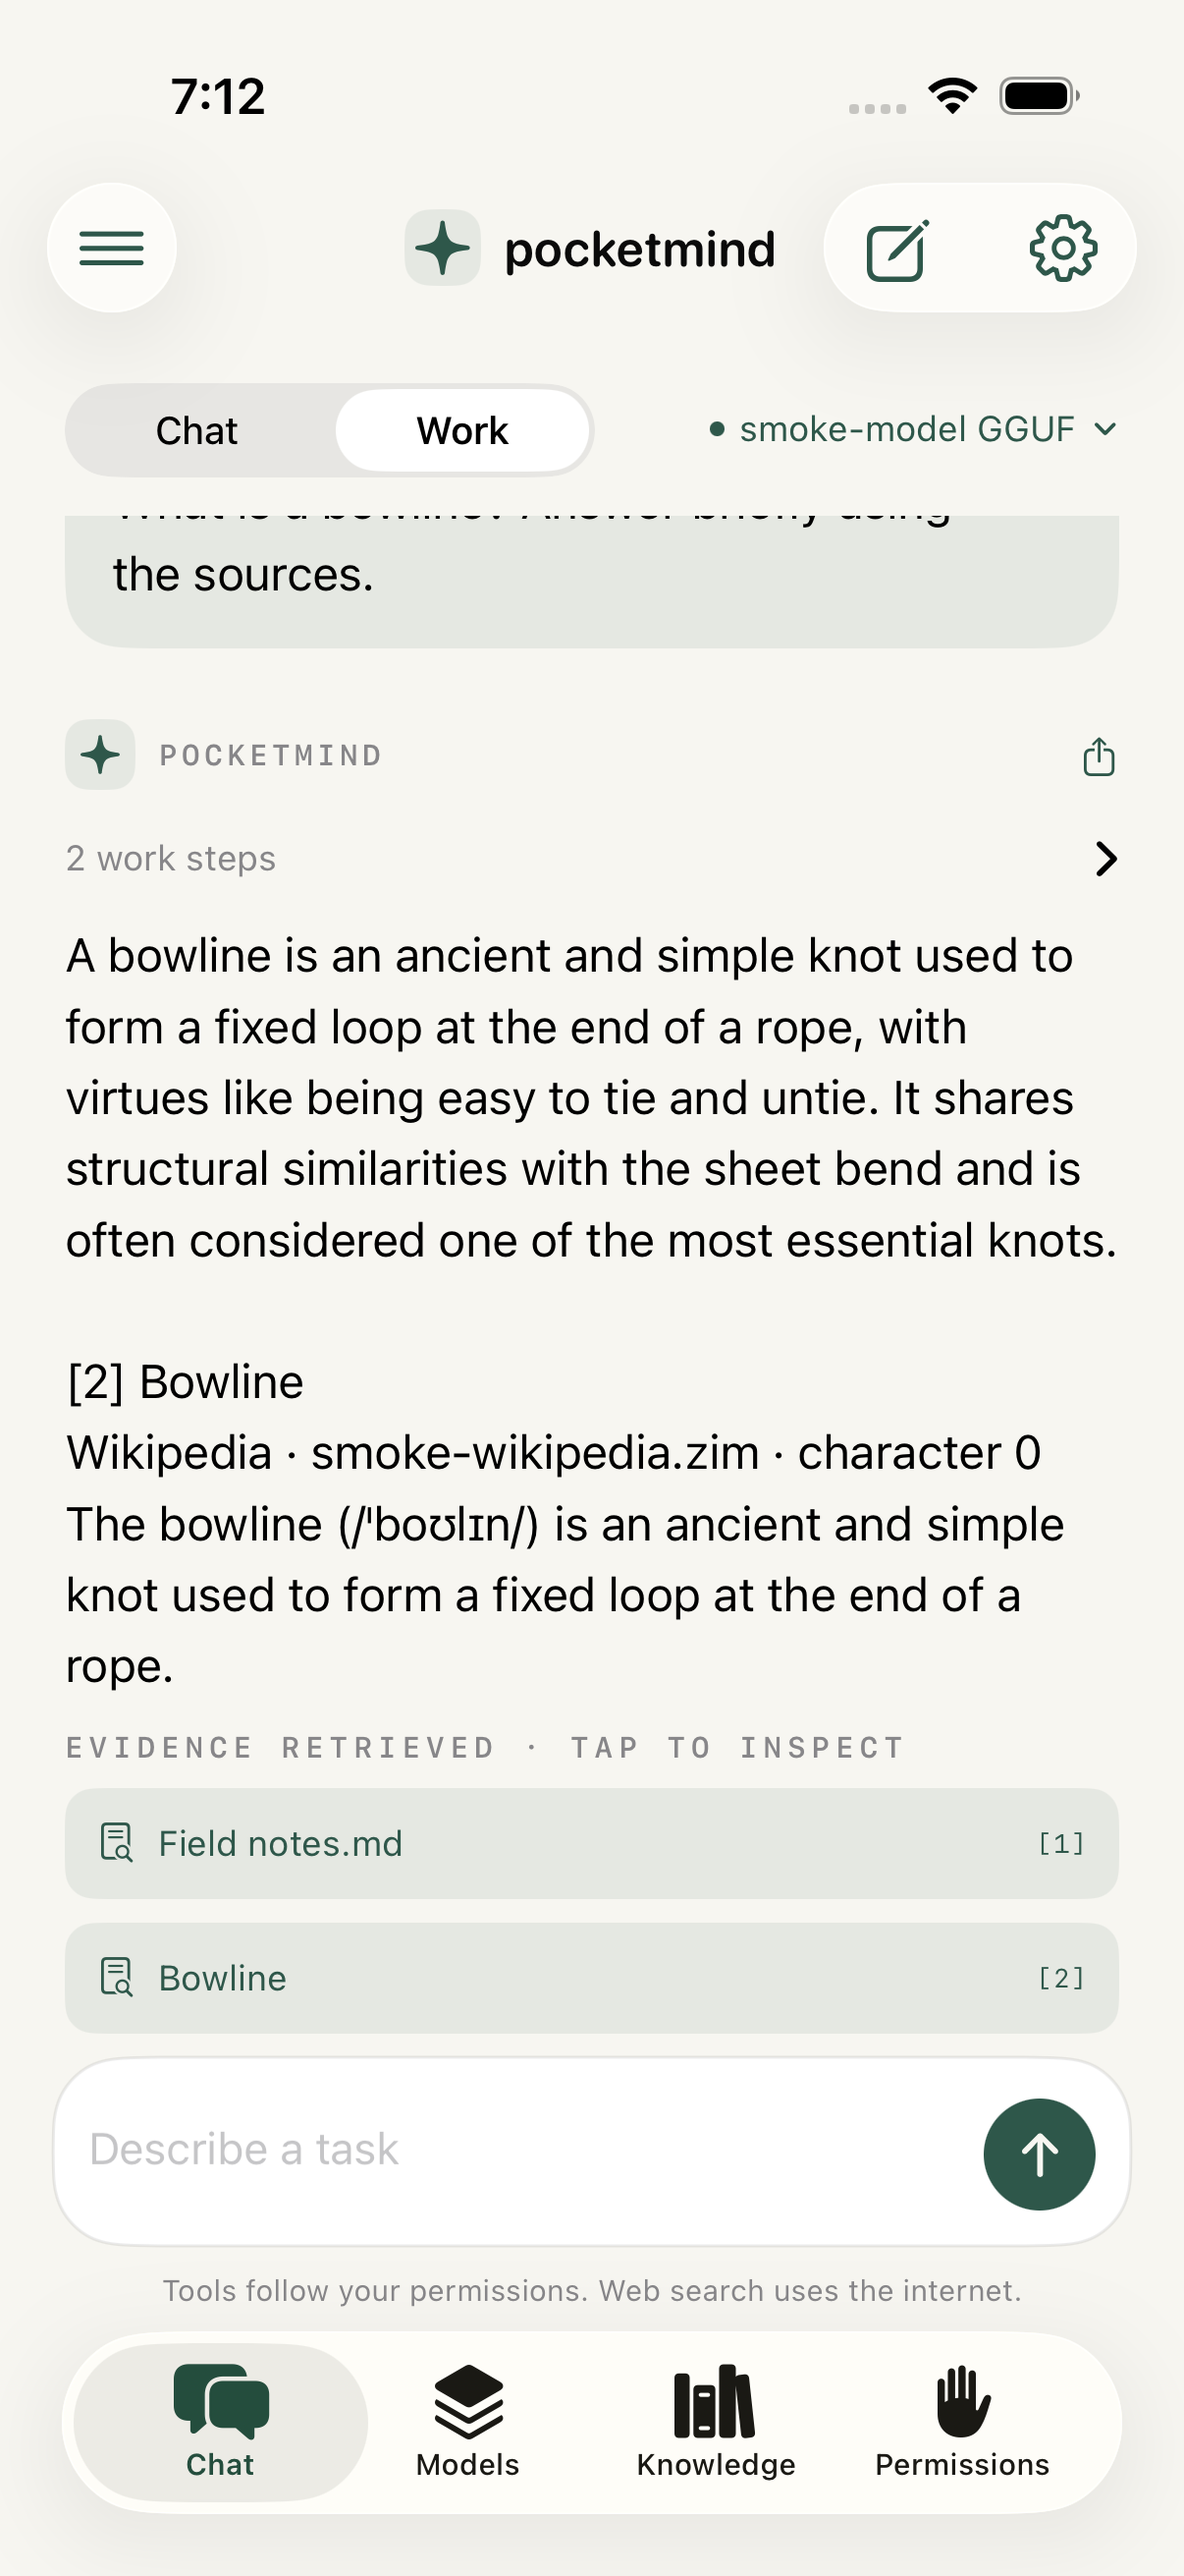
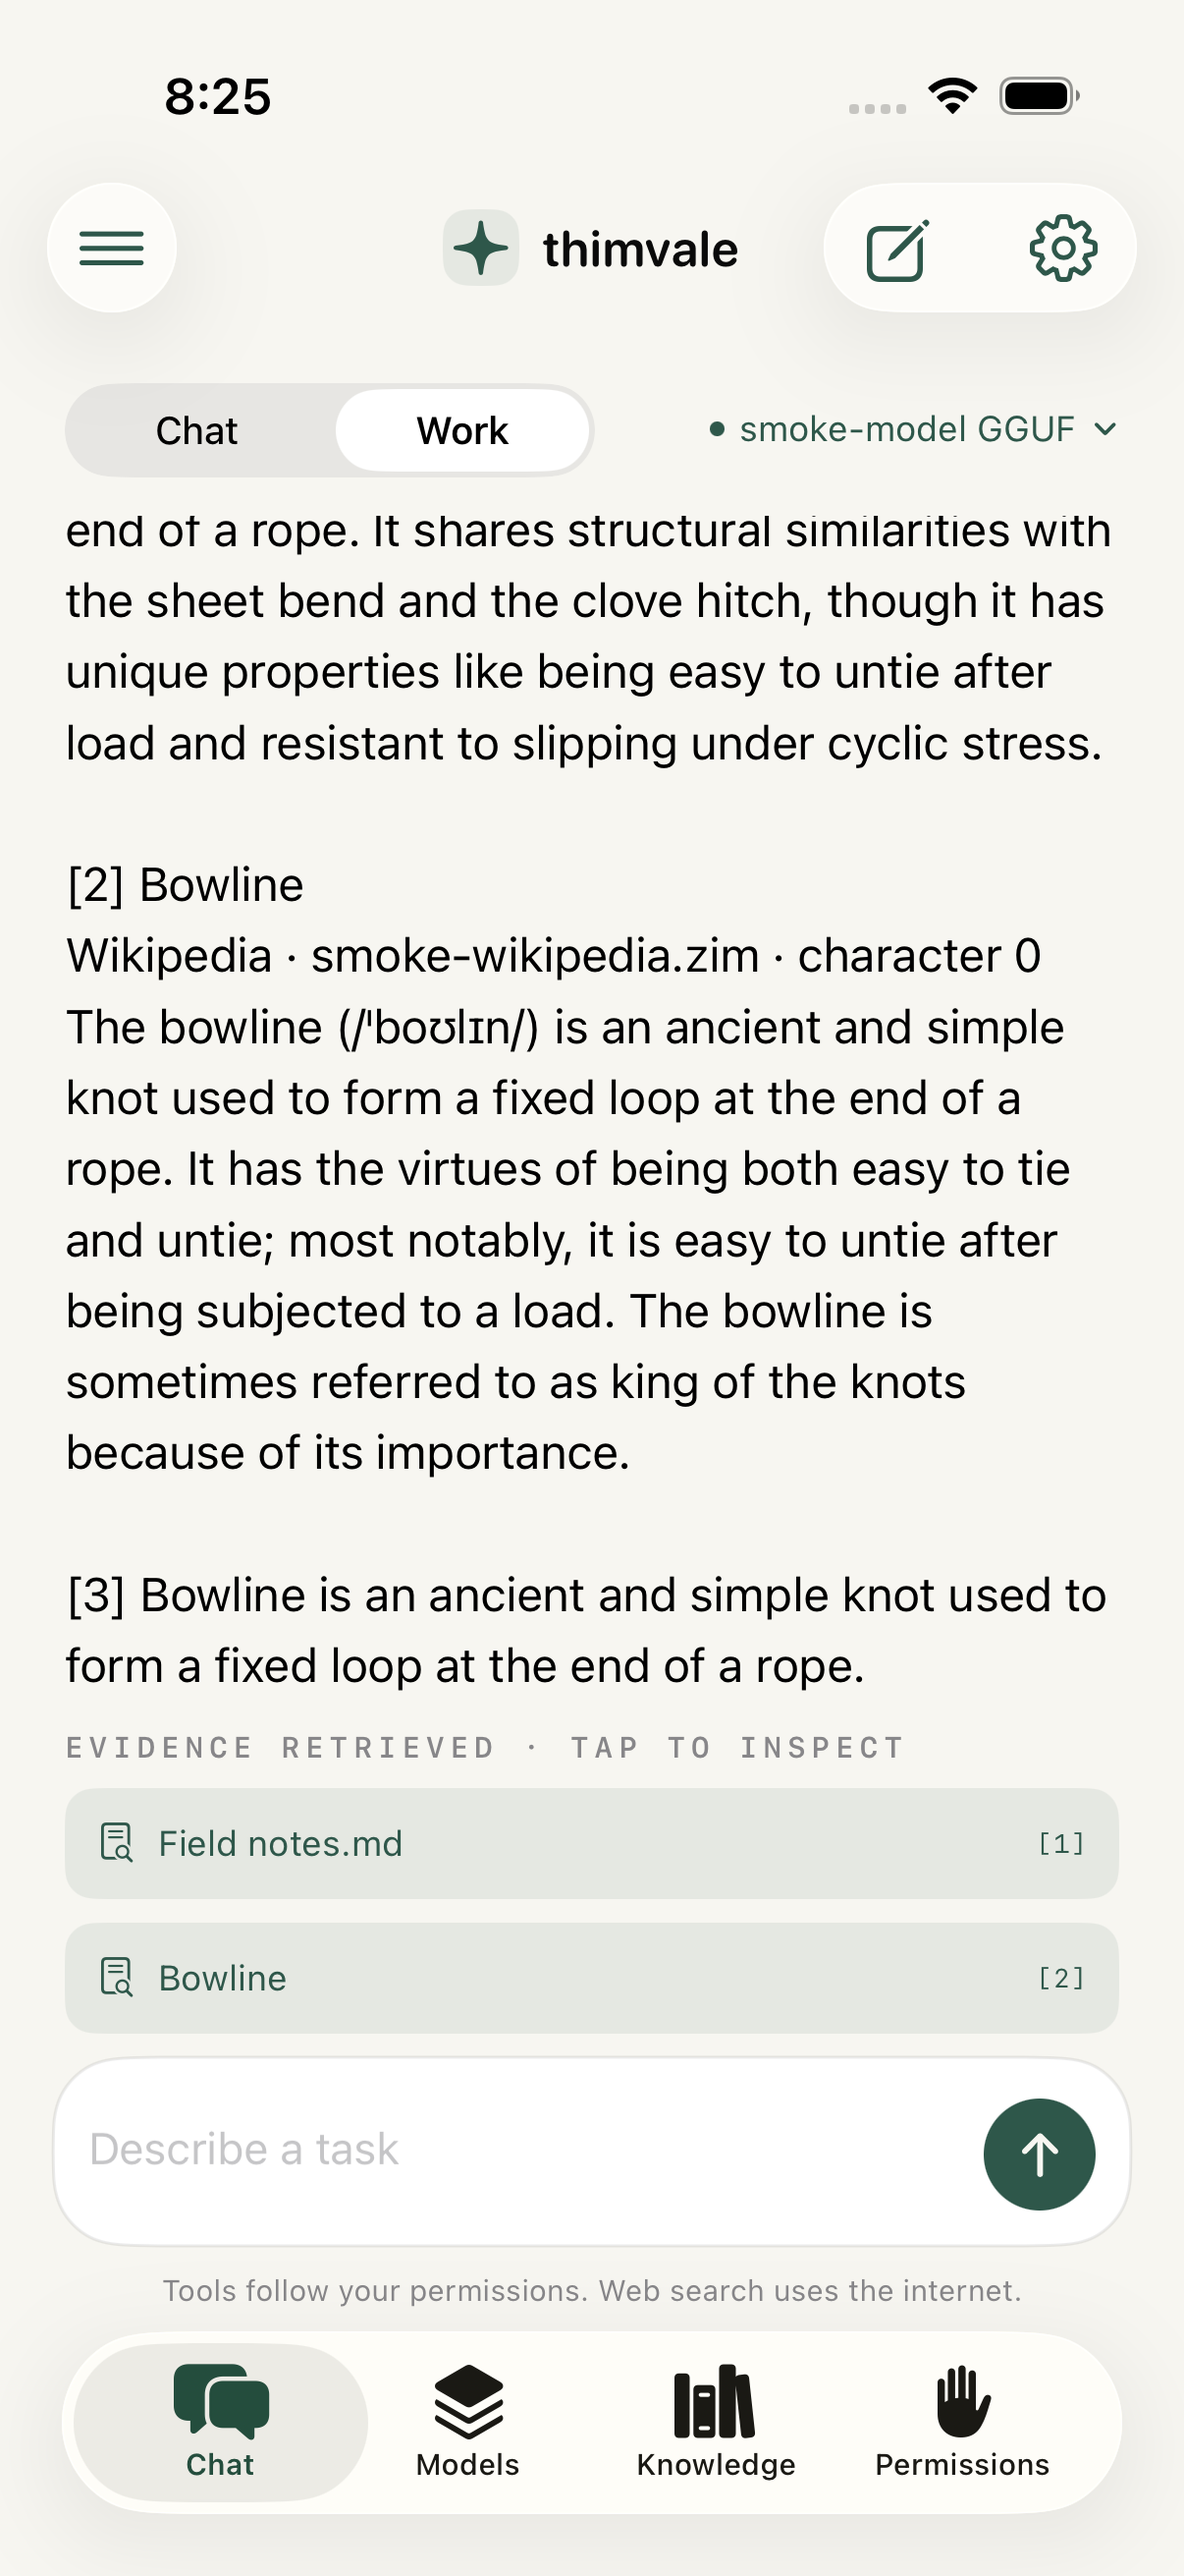
docs: record Thimvale release and 4B simulator validation

Changed region(s): [[0.0614, 0.1854, 0.9511, 0.6487], [0.3682, 0.0927, 0.6443, 0.1236], [0.1227, 0.0309, 0.2148, 0.0618]]

diff --git a/docs/validation.md b/docs/validation.md
@@ -4,12 +4,14 @@ Environment: Apple Silicon Mac, Xcode 26.1.1, Swift 6.2.1, iPhone 17 Pro simulat
 
 | Check | Result |
 | --- | --- |
-| Swift core suite | 8 tests passed |
-| Native integration suite | 9 tests passed |
-| UI suite | 14 tests passed |
-| Unsigned iPhone build | Passed |
-| Curated Hugging Face repository validation | All 18 contain single-file GGUFs |
-| Visual inspection | Chat, Models, Knowledge, and Permissions inspected; screenshots included |
+| Swift core suite | 10 tests passed |
+| Native integration suite | 11 tests passed |
+| UI suite | 15 tests passed |
+| Release configuration suite | 9 tests passed |
+| Unsigned iPhone Release archive | Passed; app identity and privacy manifest checked |
+| Workflow and shell lint | Actionlint and ShellCheck passed |
+| Curated Hugging Face repository validation | All 22 contain single-file GGUFs |
+| Visual inspection | Chat, Models, 4B filter, Knowledge, and Permissions inspected; screenshots included |
 
 The native suite uses actual external artifacts, not substitute responses:
 
@@ -19,9 +21,11 @@ The native suite uses actual external artifacts, not substitute responses:
 - A real model transfer through the app's download manager, SHA-256 verification, and recovery from a completed staging file with an intentionally unusable network URL.
 - File writes tested before approval, after approval, after denial, and after revoking the permission while an approval was pending. Reads remain separately permissioned; Chat cannot execute tools.
 
-The core suite covers source numbering/deduplication, source filtering, unsupported tool syntax, corpus updates/deletion, compression, quantization, loop limits, traversal, symlinks, and overwrite refusal. Native checks also verify full-question Wikipedia retrieval and rejection of unconnected folders before approval. UI tests exercise the four tabs, filtering, Chat/Work switching, cold launch/background return, draft preservation, all import pickers, permission and settings persistence, model selection/deletion, invalid repositories, live catalogs, real local chat/history, offline source inspection, and approval/denial followed by a cited Work answer.
+The core suite covers source numbering/deduplication, source filtering, unsupported tool syntax, corpus updates/deletion, compression, quantization, loop limits, traversal, symlinks, overwrite refusal, stable app identity, and 4B size classification/search. Native checks also verify full-question Wikipedia retrieval, rejection of unconnected folders before approval, the installed public name, and distinct catalog IDs with memory guidance. UI tests exercise the four tabs, family/4B filtering and search together, Chat/Work switching, cold launch/background return, draft preservation, all import pickers, permission and settings persistence, model selection/deletion, invalid repositories, live catalogs, real local chat/history, offline source inspection, and Work approval/denial. Work answers must expose their real retrieved evidence and either valid inline citations or an explicit visible warning that inline citations are missing; citations are never fabricated to satisfy the check. A separate native test requires a real model-generated numbered citation.
 
-All 31 tests passed locally during the simulator regression pass. The combined native/UI result is `TestResults/Regression-complete.xcresult` (23 tests); the standalone core suite contributes eight. See [simulator regressions](simulator-regressions.md) for the reported red screen, reproduced bugs, and fixes. Tests use isolated storage and credentials rather than resetting the user's app.
+All 45 tests passed locally in the final 4B validation pass. The combined native/UI result is `TestResults/Thimvale-4b.xcresult` (26 passed, zero failed or skipped); the standalone core and release-configuration suites contribute ten and nine. The unsigned Release archive is `TestResults/Thimvale-4b.xcarchive`. Release tests exercise credential/profile validation, build numbering, export options, and event guards without real Apple secrets. They do not establish that a signed upload succeeds.
+
+After the rename, SHA-256 hashes of the existing installation's conversation, download, folder, model, and permission JSON records matched their pre-rename values. The public name is Thimvale; the bundle ID, storage directory, Keychain service, and background transfer identifier intentionally retain their existing identity. See [simulator regressions](simulator-regressions.md) for the reported red screen, reproduced bugs, and fixes. Tests use isolated storage and credentials rather than resetting the user's app. Simulator test sessions use a fixed inference seed; ordinary app sessions do not.
 
 ## What these checks do not establish
 
@@ -29,7 +33,7 @@ No physical iPhone was connected for performance or background-transfer testing.
 
 No full English Wikipedia download was performed during development. Its real catalog entries, download sizes, and SHA-256 metadata are loaded by the app; actual offline search was exercised against the smaller real archive. Wikipedia uses its built-in compressed full-text index plus passage reranking, not a precomputed vector for every article.
 
-Only the small Liquid model was exercised for inference. Availability checks for the other 17 curated entries do not prove runtime compatibility, quality, or memory fitness. Citation following and tool selection remain model-dependent; the app displays retrieved evidence and flags an answer that omits citations.
+Only the small Liquid model was exercised for inference. Availability checks for the other 21 curated entries, including the four newly added [4B models](models-4b.md), do not prove runtime compatibility, quality, or memory fitness. No 4B weights were downloaded or executed. Citation following and tool selection remain model-dependent; the app displays retrieved evidence and flags an answer that omits citations.
 
 Web search's request and error paths are implemented, but no Brave API key was supplied, so a successful authenticated Brave search was not exercised. No App Store/TestFlight upload or signed device installation was performed.
 

diff --git a/docs/models-4b.md b/docs/models-4b.md
@@ -2,6 +2,8 @@
 
 Added September 6, 2026. The Models → Discover → **4B class** filter includes the four 4B models below plus the existing Phi 4 Mini (3.8B). Family filters and text search compose with this filter; typing `4b` also searches the parameter label.
 
+![The 4B model filter in the iPhone simulator](screenshots/models-4b.png)
+
 | Model | GGUF publisher/repository | Q4_K_M bytes checked | Upstream license |
 | --- | --- | ---: | --- |
 | Qwen 3.5 4B | [unsloth/Qwen3.5-4B-GGUF](https://huggingface.co/unsloth/Qwen3.5-4B-GGUF) | 2,740,937,888 | Apache-2.0 |
